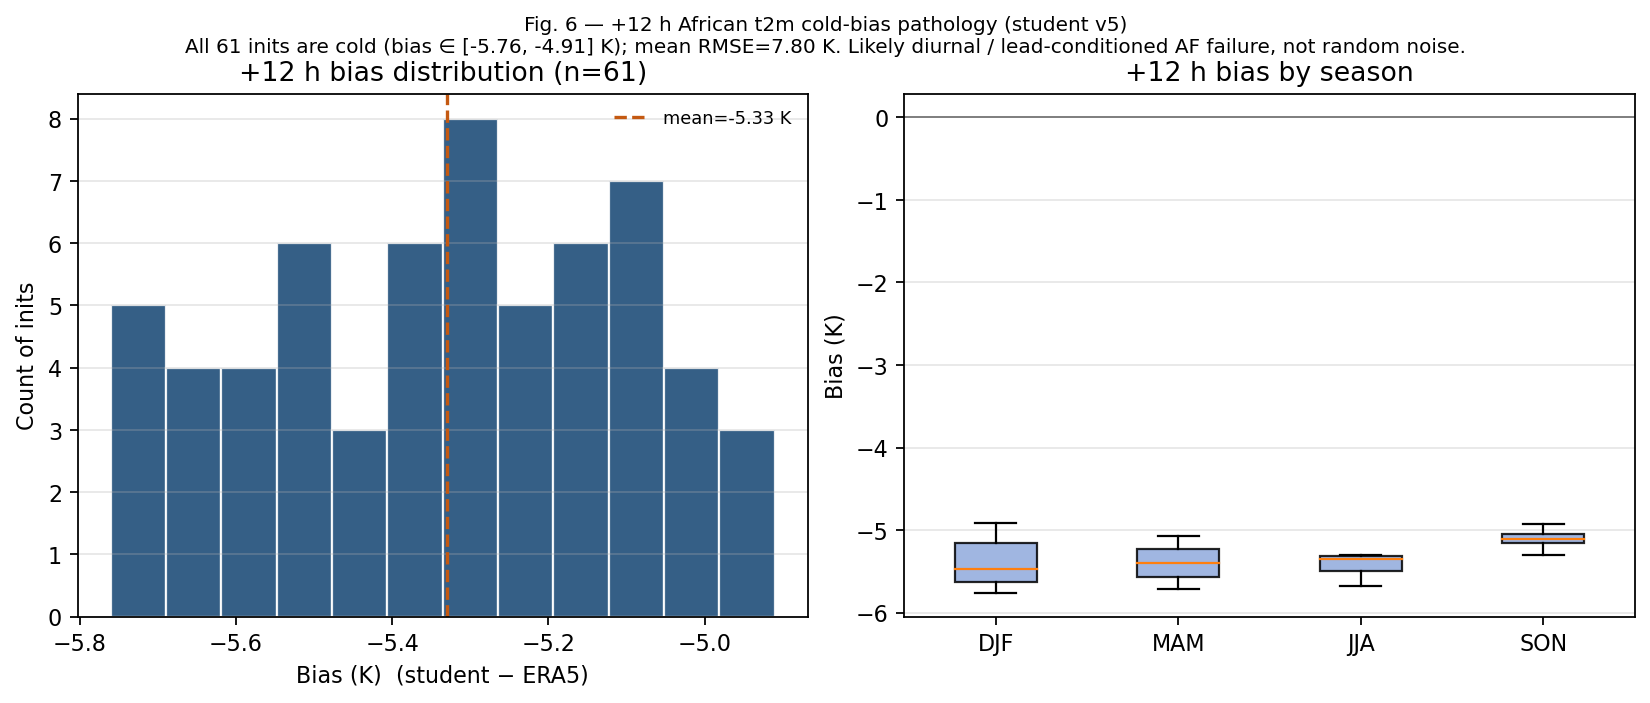
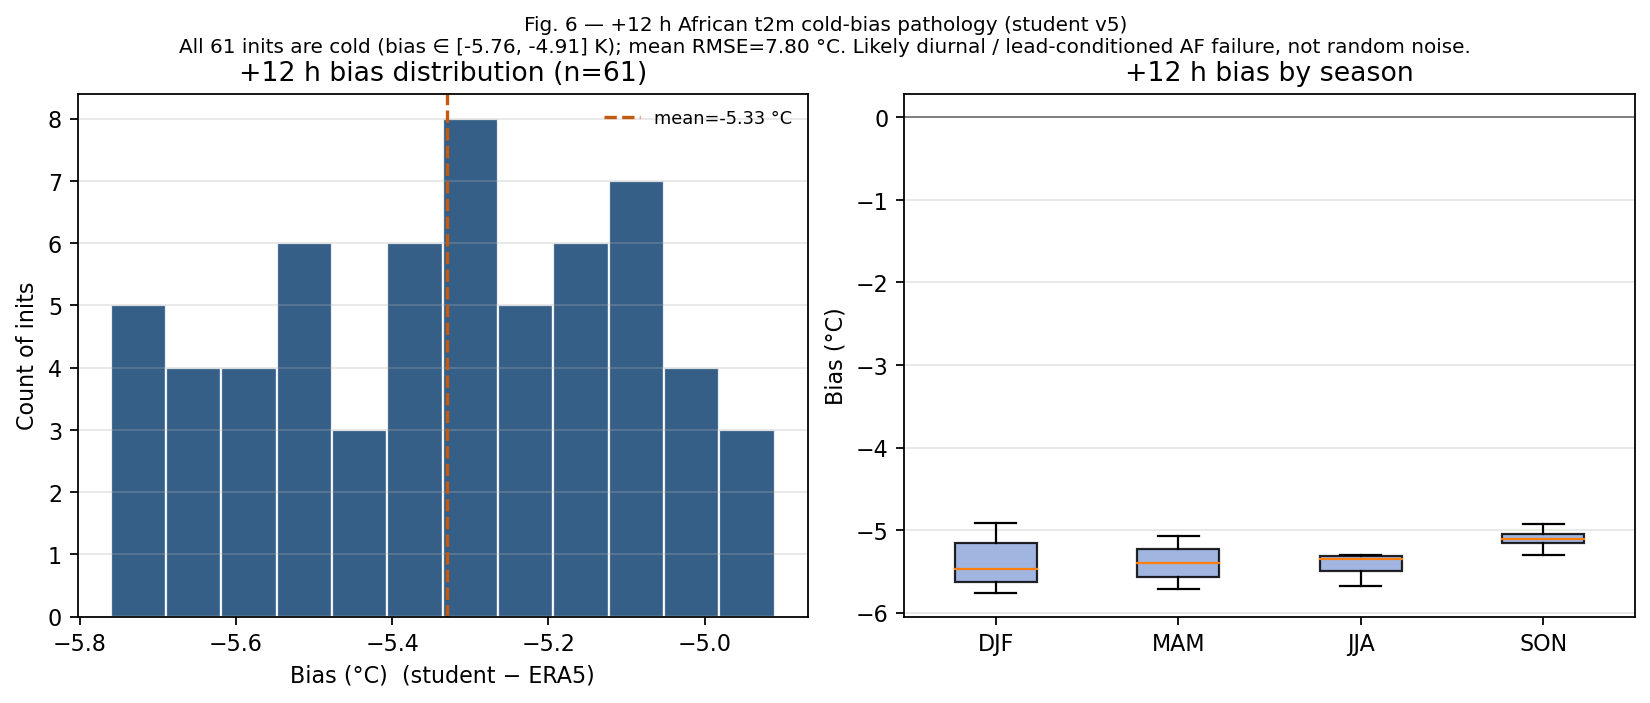
Report RMSE/bias in °C for African audience clarity; equal-width Fig.1 panels.
Interval units are unchanged (1 °C ≡ 1 K for differences); absolute fields stay Kelvin internally.

diff --git a/scripts/plot_mvula_report_fig02_fig03.py b/scripts/plot_mvula_report_fig02_fig03.py
@@ -170,12 +170,11 @@ def fig1_pipeline() -> None:
 def fig1_pipeline_publication() -> None:
     """Journal-style vertical pathway (Learn → Compress → Verify → Access).
 
-    Each panel is a framed AnnotationBbox so the border pad is applied by
-    matplotlib symmetrically around the packed title+body (no empty interior
-    below the last line from mismatched FancyBbox heights).
+    Equal-width FancyBbox panels; text packed with OffsetBoxes and measured so
+    top/bottom interior pad stays tight and uniform.
     """
     from matplotlib.offsetbox import AnnotationBbox, TextArea, VPacker
-    from matplotlib.patches import FancyArrowPatch, Rectangle
+    from matplotlib.patches import FancyArrowPatch, FancyBboxPatch, Rectangle
 
     fig, ax = plt.subplots(figsize=(7.2, 8.6), dpi=300)
     ax.set_xlim(0, 7.2)
@@ -235,7 +234,7 @@ def fig1_pipeline_publication() -> None:
             [
                 "Protocol: IC at init+(L−6) h → one +6 h step; leads L ∈ {6, 12, 18, 24} h",
                 "Domain: Africa · truth/IC: public ARCO ERA5 · n = 61 × 00Z inits (2023)",
-                "Metrics: cosine-latitude RMSE, ACC, bias; baselines: AF persistence, K1",
+                "Metrics: cosine-latitude RMSE / ACC / bias (°C); baselines: AF persistence, K1",
                 "Headline: +6 h beats persistence (+41.8%); +12/+18 h failure regime",
             ],
             "#2E5A1C",
@@ -253,6 +252,12 @@ def fig1_pipeline_publication() -> None:
             "#F7EFF4",
         ),
     ]
+
+    # Fixed equal panel width (data coords), left-aligned text inside
+    x0, box_w = 0.72, 5.85
+    text_x = x0 + 0.18
+    pad_y = 0.07
+    arrow_gap = 0.22
 
     y_cursor = 7.15
     prev_box_bot = None
@@ -278,28 +283,39 @@ def fig1_pipeline_publication() -> None:
             },
         )
         pack = VPacker(children=[title_ta, body_ta], align="left", pad=0, sep=5)
+
+        # Text top just below pad; measure pack, then draw equal-width frame around it
         ab = AnnotationBbox(
             pack,
-            (3.6, y_cursor),
+            (text_x, y_cursor - pad_y),
             xycoords="data",
-            box_alignment=(0.5, 1.0),
-            frameon=True,
-            pad=0.45,
-            bboxprops={
-                "boxstyle": "round,pad=0.4",
-                "linewidth": 1.2,
-                "edgecolor": edge,
-                "facecolor": face,
-            },
-            zorder=2,
+            box_alignment=(0.0, 1.0),
+            frameon=False,
+            pad=0.0,
+            zorder=3,
         )
         ax.add_artist(ab)
         fig.canvas.draw()
-        bb = ab.get_window_extent(renderer=fig.canvas.get_renderer()).transformed(inv)
+        tb = ab.get_window_extent(renderer=fig.canvas.get_renderer()).transformed(inv)
+
+        box_top = y_cursor
+        box_bot = tb.y0 - pad_y
+        ax.add_patch(
+            FancyBboxPatch(
+                (x0, box_bot),
+                box_w,
+                box_top - box_bot,
+                boxstyle="round,pad=0.0,rounding_size=0.05",
+                linewidth=1.2,
+                edgecolor=edge,
+                facecolor=face,
+                zorder=1,
+            )
+        )
 
         ax.text(
             0.28,
-            (bb.y0 + bb.y1) / 2,
+            (box_top + box_bot) / 2,
             phase,
             ha="left",
             va="center",
@@ -314,17 +330,17 @@ def fig1_pipeline_publication() -> None:
             ax.add_patch(
                 FancyArrowPatch(
                     (3.6, prev_box_bot - 0.02),
-                    (3.6, bb.y1 + 0.02),
+                    (3.6, box_top + 0.02),
                     arrowstyle="-|>",
                     mutation_scale=18,
                     linewidth=1.5,
                     color="#555555",
-                    zorder=1,
+                    zorder=2,
                 )
             )
 
-        prev_box_bot = bb.y0
-        y_cursor = bb.y0 - 0.22
+        prev_box_bot = box_bot
+        y_cursor = box_bot - arrow_gap
 
     ax.add_patch(Rectangle((0.35, 0.08), 6.5, 0.36, facecolor="#f0f0f0", edgecolor="none", zorder=0))
     ax.text(
@@ -389,7 +405,7 @@ def fig2_lead_curves(student, k1) -> None:
     if k1_leads:
         ax.plot(k1_leads, k1_rmse, "s--", color="#c45911", label=f"K1 teacher (n={len(k1_by[k1_leads[0]])})")
     ax.set_xlabel("Lead time (h)")
-    ax.set_ylabel("RMSE (K)")
+    ax.set_ylabel("RMSE (°C)")
     ax.set_title("African t2m RMSE vs lead")
     ax.set_xticks(leads)
     ax.grid(True, alpha=0.3)
@@ -462,7 +478,7 @@ def fig3_heatmap(student) -> None:
     ax.set_xlabel("Lead time")
     ax.set_ylabel("Initialisation (MM-DD, season)")
     cbar = fig.colorbar(im, ax=ax, fraction=0.03, pad=0.02)
-    cbar.set_label("RMSE (K)")
+    cbar.set_label("RMSE (°C)")
 
     # Mark season boundaries
     seasons = [season_of[i] for i in inits]
@@ -472,7 +488,7 @@ def fig3_heatmap(student) -> None:
 
     ax.set_title(
         "Fig. 3 — Init × lead African t2m RMSE scorecard (student v5, n=61)\n"
-        "Bright column at +12 h = systematic cold-bias failure mode (RMSE≈7.8 K).",
+        "Bright column at +12 h = systematic cold-bias failure mode (RMSE≈7.8 °C).",
         fontsize=9,
     )
     fig.savefig(OUT3, dpi=160, bbox_inches="tight")
@@ -498,8 +514,8 @@ def fig6_plus12_pathology(student) -> None:
 
     ax = axes[0]
     ax.hist(biases, bins=12, color="#1f4e79", edgecolor="white", alpha=0.9)
-    ax.axvline(biases.mean(), color="#c45911", ls="--", lw=1.5, label=f"mean={biases.mean():.2f} K")
-    ax.set_xlabel("Bias (K)  (student − ERA5)")
+    ax.axvline(biases.mean(), color="#c45911", ls="--", lw=1.5, label=f"mean={biases.mean():.2f} °C")
+    ax.set_xlabel("Bias (°C)  (student − ERA5)")
     ax.set_ylabel("Count of inits")
     ax.set_title("+12 h bias distribution (n=61)")
     ax.legend(frameon=False, fontsize=8)
@@ -513,14 +529,14 @@ def fig6_plus12_pathology(student) -> None:
         patch.set_facecolor("#8faadc")
         patch.set_alpha(0.85)
     ax.axhline(0.0, color="black", lw=0.8, alpha=0.5)
-    ax.set_ylabel("Bias (K)")
+    ax.set_ylabel("Bias (°C)")
     ax.set_title("+12 h bias by season")
     ax.grid(True, alpha=0.3, axis="y")
 
     fig.suptitle(
         "Fig. 6 — +12 h African t2m cold-bias pathology (student v5)\n"
         f"All {len(biases)} inits are cold (bias ∈ [{biases.min():.2f}, {biases.max():.2f}] K); "
-        f"mean RMSE={rmses.mean():.2f} K. Likely diurnal / lead-conditioned AF failure, not random noise.",
+        f"mean RMSE={rmses.mean():.2f} °C. Likely diurnal / lead-conditioned AF failure, not random noise.",
         fontsize=9,
         y=1.06,
     )
@@ -573,7 +589,7 @@ def fig7_seasonal(student) -> None:
     bars2 = ax.bar(x + width / 2, m24, width, yerr=s24, capsize=3, color=c24, label="+24 h", ecolor="#f4b183")
     ax.set_xticks(x)
     ax.set_xticklabels([f"{s}\n(n={n})" for s, n in zip(seasons, n6)])
-    ax.set_ylabel("RMSE (K)")
+    ax.set_ylabel("RMSE (°C)")
     ax.set_title("African t2m RMSE by season")
     ax.legend(frameon=False, fontsize=8)
     ax.grid(True, axis="y", alpha=0.3)
@@ -674,7 +690,7 @@ def fig8_baselines() -> None:
             label="Climatology (MM–DD HH)",
         )
     ax.set_xlabel("Lead time (h)")
-    ax.set_ylabel("RMSE (K)")
+    ax.set_ylabel("RMSE (°C)")
     ax.set_xticks(leads)
     ax.set_title("RMSE: persistence → Mvula → K1")
     ax.grid(True, alpha=0.3)

diff --git a/reports/MVULA_INTERNAL_TECHNICAL_REPORT.md b/reports/MVULA_INTERNAL_TECHNICAL_REPORT.md
@@ -35,10 +35,10 @@ Mvula asks whether advanced AI weather models can be **compressed** enough to su
 1. **Compression:** Distilled CNN student is **8.8 MiB / 2.17 M params**, ~**6×** smaller on disk than the accepted K1 pruned GraphTransformer teacher (52.8 MiB).  
 2. **Accessibility:** On a consumer Windows laptop (**i7-11800H**, ~32 GB RAM), CPU-only inference runs in **~2.53 s** per +6 h step; peak process RSS ~**1.19 GiB**; **no GPU required**.  
 3. **Skill (analysis-forced African t2m, n=61 inits, 2023 seasons):**  
-   - **+6 h:** RMSE **1.382 K**, ACC **0.965**, bias ≈ **−0.12 K** (~**+16.6%** RMSE vs K1 on n=3 shared inits).  
-   - **+24 h:** RMSE **3.231 K**, ACC **0.835**, bias ≈ **+1.30 K** (~**+103%** vs K1).  
+   - **+6 h:** RMSE **1.382 °C**, ACC **0.965**, bias ≈ **−0.12 °C** (~**+16.6%** RMSE vs K1 on n=3 shared inits).  
+   - **+24 h:** RMSE **3.231 °C**, ACC **0.835**, bias ≈ **+1.30 °C** (~**+103%** vs K1).  
    - RMSE growth +6→+24 h ≈ **+134%**, persistent across DJF/MAM/JJA/SON.  
-4. **Failure mode:** **+12 h** is pathological (RMSE **7.80 K**, bias **−5.33 K** on **61/61** inits) — systematic cold bias, not random noise.  
+4. **Failure mode:** **+12 h** is pathological (RMSE **7.80 °C**, bias **−5.33 °C** on **61/61** inits) — systematic cold bias, not random noise.  
 5. **Architecture limit (Case A):** Outputs are Cout=3 (`tp`,`msl`,`2t`) with **no** 3→65 decoder ⇒ **free-run impossible**. Precipitation on this head collapsed and is **out-of-scope**.
 
 **One-sentence takeaway:** Mvula v5 is a successful **compression + short-range AF t2m + laptop inference** demonstration — not a finished 10-day free-running laptop AIFS.
@@ -88,7 +88,7 @@ Multi-lead tables are therefore **re-IC’d one-step skill**, not autonomous day
 |------|--------|
 | Domain | Africa box (lat [−40, 40], lon [−20, 55] in packaged campaign) |
 | Truth / ICs | Public ARCO ERA5 |
-| Metrics | Cosine-latitude **RMSE**, anomaly **ACC**, mean **bias** (student − ERA5) |
+| Metrics | Cosine-latitude **RMSE**, anomaly **ACC**, mean **bias** (student − ERA5). Reported in **°C** for RMSE/bias (interval-identical to K; absolute fields remain Kelvin internally) |
 | Teacher compare | Same metrics vs ERA5; degradation % vs K1 where K1 NetCDFs exist (**n=3** Jan-2023 weekly) |
 | Simple baselines | **AF persistence** T̂=T(IC); **init persistence** T̂=T(init 00Z) — `TRACKB_T2M_BASELINES.*` / Fig. 8 |
 | Inits | **61** × 00Z dates in 2023 across DJF/MAM/JJA/SON (`step_days=5`) |
@@ -125,8 +125,8 @@ Multi-lead tables are therefore **re-IC’d one-step skill**, not autonomous day
 
 **Table 2. Africa t2m, all inits (n=61).**
 
-| Lead | RMSE (K) | ACC | Bias (K) | K1 RMSE | Deg. vs K1 |
-|-----:|---------:|----:|---------:|--------:|-----------:|
+| Lead | RMSE (°C) | ACC | Bias (°C) | K1 RMSE | Deg. vs K1 |
+|-----:|----------:|----:|----------:|--------:|-----------:|
 | +6 h | **1.382** | **0.965** | −0.115 | 1.216 | +16.6% |
 | +12 h | **7.800** | 0.446 | **−5.330** | 1.698 | +360% |
 | +18 h | 4.377 | 0.749 | −1.115 | 1.468 | +204% |
@@ -134,8 +134,8 @@ Multi-lead tables are therefore **re-IC’d one-step skill**, not autonomous day
 
 **Table 2b. Student vs analysis-forced persistence (Fig. 8).**
 
-| Lead | Pers(AF) RMSE | Student RMSE | Skill vs pers |
-|-----:|--------------:|-------------:|--------------:|
+| Lead | Pers(AF) RMSE (°C) | Student RMSE (°C) | Skill vs pers |
+|-----:|-------------------:|------------------:|--------------:|
 | +6 h | 2.373 | **1.382** | **+41.8%** |
 | +12 h | 6.581 | 7.800 | **−18.5%** |
 | +18 h | 3.691 | 4.377 | **−18.6%** |
@@ -143,14 +143,14 @@ Multi-lead tables are therefore **re-IC’d one-step skill**, not autonomous day
 
 **Findings**
 
-- **+6 h — useful prediction:** the student substantially outperforms AF persistence, reducing RMSE from 2.37 K to 1.38 K (**+41.8%** skill). This is evidence that the CNN extracts predictive information from the atmospheric state rather than copying the analysis. Low bias / high ACC hold across seasons (non-DJF mean RMSE ≈ 1.37).  
-- **+12 h / +18 h — failure regime (central result, not an aside):** advantage reverses; the student is **worse than persistence** (−18.5% / −18.6%). Combined with the systematic **−5.33 K** mean bias at +12 h on **61/61** inits, this is a **lead-dependent failure regime**, not simple monotonic degradation with lead.  
+- **+6 h — useful prediction:** the student substantially outperforms AF persistence, reducing RMSE from 2.37 °C to 1.38 °C (**+41.8%** skill). This is evidence that the CNN extracts predictive information from the atmospheric state rather than copying the analysis. Low bias / high ACC hold across seasons (non-DJF mean RMSE ≈ 1.37 °C).  
+- **+12 h / +18 h — failure regime (central result, not an aside):** advantage reverses; the student is **worse than persistence** (−18.5% / −18.6%). Combined with the systematic **−5.33 °C** mean bias at +12 h on **61/61** inits, this is a **lead-dependent failure regime**, not simple monotonic degradation with lead.  
 - **+24 h — partial recovery:** student again beats AF persistence (+16.7%) but remains far from K1; regional warm/cold dipole emerges spatially.
 
 **Results claim (paper-ready):**  
-*At +6 h, the student substantially outperforms an analysis-forced persistence baseline, reducing RMSE from 2.37 K to 1.38 K (41.8% improvement). This advantage reverses at +12 h and +18 h, where the student performs worse than persistence, before recovering at +24 h. Combined with the systematic −5.33 K mean bias at +12 h across all 61 initialisations, this indicates a distinct lead-dependent failure regime rather than simple monotonic degradation with forecast lead.*
+*At +6 h, the student substantially outperforms an analysis-forced persistence baseline, reducing RMSE from 2.37 °C to 1.38 °C (41.8% improvement). This advantage reverses at +12 h and +18 h, where the student performs worse than persistence, before recovering at +24 h. Combined with the systematic −5.33 °C mean bias at +12 h across all 61 initialisations, this indicates a distinct lead-dependent failure regime rather than simple monotonic degradation with forecast lead.*
 
-**Table 3. Seasonal +6 h / +24 h (student vs ERA5).**
+**Table 3. Seasonal +6 h / +24 h (student vs ERA5; RMSE/bias in °C).**
 
 | Season | +6 RMSE | +6 ACC | +6 bias | +24 RMSE | +24 ACC | +24 bias |
 |--------|--------:|-------:|--------:|---------:|--------:|---------:|
@@ -201,7 +201,7 @@ Produce / assemble these as a fixed figure set (Dueben scorecard DNA + science m
 |----|--------|-----------------|--------|
 | **Fig. 1** | Pipeline schematic | *Mvula pathway: K1 → distillation → Cout=3 student → AF verify → accessibility. Free-run excluded (Case A).* | **Done** — internal: `mvula_fig01_pipeline.png` · **publication:** `mvula_fig01_pipeline_publication.png` |
 | **Fig. 2** | Lead curves | *Cosine-latitude RMSE and ACC for African t2m versus lead time for student v5 (n=61). K1 shown where available (n=3). Error bars: ±1 std across inits.* | **Done** — `figures/mvula_fig02_t2m_lead_curves.png` |
-| **Fig. 3** | Scorecard heatmap | *Init × lead RMSE (K) for African t2m (student v5). Rows ordered by season. Highlights the +12 h cold-bias ridge.* | **Done** — `figures/mvula_fig03_t2m_init_lead_heatmap.png` |
+| **Fig. 3** | Scorecard heatmap | *Init × lead RMSE (°C) for African t2m (student v5). Rows ordered by season. Highlights the +12 h cold-bias ridge.* | **Done** — `figures/mvula_fig03_t2m_init_lead_heatmap.png` |
 | **Fig. 4** | Spatial +6 h | *Mean bias and RMSE at +6 h (n=61). Near-unbiased large-scale field with coastal/orographic residuals.* | **Exists** (bias/rmse maps) |
 | **Fig. 5** | Spatial +24 h | *Mean bias and RMSE at +24 h (n=61). Regional warm/cold dipole emerges.* | **Exists** |
 | **Fig. 6** | +12 h pathology | *Histogram of +12 h bias across 61 inits (all cold) plus seasonal boxplots.* | **Done** — `figures/mvula_fig06_t2m_plus12h_pathology.png` |
@@ -209,7 +209,7 @@ Produce / assemble these as a fixed figure set (Dueben scorecard DNA + science m
 | **Fig. 8** | Skill vs AF persistence | *RMSE: AF persistence / Mvula v5 / K1; relative skill % (non-monotonic +42/−18/−19/+17).* | **Done** — `figures/mvula_fig08_t2m_baselines.png` |
 | **Fig. 9** | Compute / accessibility | *Disk size, CPU step time, peak RSS on measured i7 laptop (student vs K1 size).* | **Done** — `figures/mvula_fig09_compute_panel.png` |
 
-**Baseline finding (central, not embarrassing):** The student does **not** degrade monotonically. Useful prediction at +6 h (+41.8% vs pers) → failure regime at +12/+18 h (worse than pers; −5.33 K bias on 61/61) → partial recovery at +24 h (+16.7%). Climatology scoring running on Cassava (does not block report). See `TRACKB_T2M_BASELINES.md`.
+**Baseline finding (central, not embarrassing):** The student does **not** degrade monotonically. Useful prediction at +6 h (+41.8% vs pers) → failure regime at +12/+18 h (worse than pers; −5.33 °C bias on 61/61) → partial recovery at +24 h (+16.7%). Climatology scoring running on Cassava (does not block report). See `TRACKB_T2M_BASELINES.md`.
 
 ---
 

diff --git a/reports/TRACKB_T2M_BASELINES.md b/reports/TRACKB_T2M_BASELINES.md
@@ -11,7 +11,9 @@
 - **student:** from TRACKB_T2M_EXPANDED.json (v5 AF)
 - **k1:** from expanded JSON where available (n≈3 inits)
 
-## Aggregate RMSE (K)
+## Aggregate RMSE (°C)
+
+*Same magnitude as Kelvin for temperature differences (1 °C ≡ 1 K interval).*
 
 | Lead | Pers(AF) | Pers(init) | Student | Clim | K1 | Student skill vs Pers(AF) |
 |-----:|---------:|-----------:|--------:|-----:|---:|--------------------------:|
